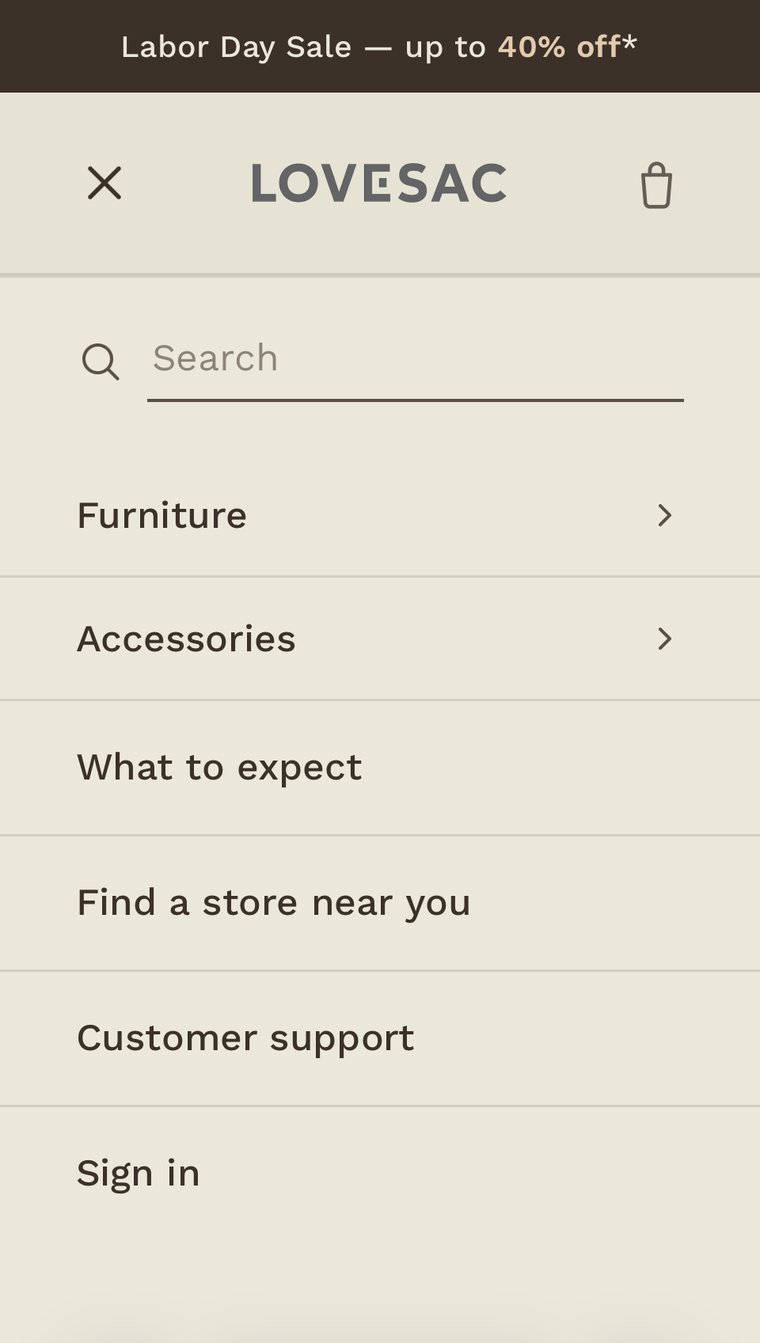
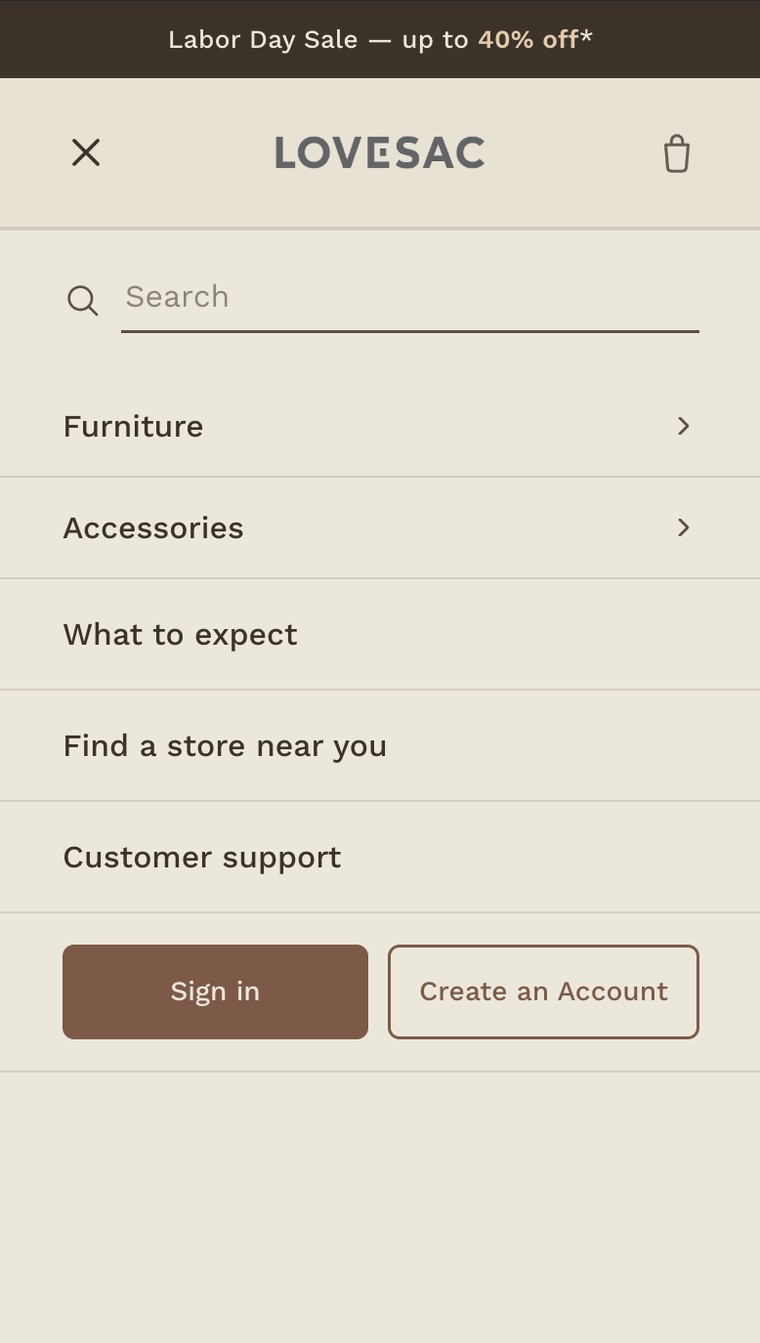
Fix outline button border, update mobile nav screenshot, unify case study headers
- Restore Create an Account pill's bottom border, clipped by an
  overzealous divider-reset rule
- Update the Redesign — mobile screenshot on case study 2 to show
  the new Sign in / Create an Account buttons
- Add missing "· Redesign" suffix to case study 1's eyebrow and
  align case study 2's top bar tag to the "Case Study · [name]"
  pattern used across all four pages

diff --git a/work/lovesac-redesign.html b/work/lovesac-redesign.html
@@ -393,6 +393,9 @@
     background:none; font-family:inherit; color:inherit; text-align:left; cursor:pointer;
   }
   .mobile-nav-row svg{width:16px; height:16px; color:var(--ink-soft); flex-shrink:0;}
+  .mobile-account-actions{display:flex; gap:10px; padding:16px 32px; border-bottom:1px solid var(--line);}
+  .mobile-menu .mobile-account-actions a{flex:1; display:flex; align-items:center; justify-content:center; text-align:center; padding:12px 14px; font-size:0.88rem; border-bottom:none;}
+  .mobile-menu .mobile-account-actions .btn-outline{border-bottom:1.5px solid var(--clay);}
   .mobile-tier-2{
     position:absolute; top:0; left:0; right:0;
     background:var(--canvas);
@@ -954,7 +957,10 @@
         <a href="lovesac-what-to-expect.html">What to expect</a>
         <a href="#" id="mobileStoreLink">Find a store near you</a>
         <a href="lovesac-support.html">Customer support</a>
-        <a href="#" id="mobileSignInLink">Sign in</a>
+        <div class="mobile-account-actions">
+          <a href="#" class="btn-primary nav-mock">Sign in</a>
+          <a href="#" class="btn-outline nav-mock">Create an Account</a>
+        </div>
       </div>
 
       <div class="mobile-tier-2" id="mobileTierFurniture">
@@ -1681,15 +1687,6 @@
       closeMenu();
       var storeToggle = document.getElementById('storeToggle');
       if(storeToggle) setTimeout(function(){ storeToggle.click(); }, 260);
-    });
-  }
-  var mobileSignInLink = document.getElementById('mobileSignInLink');
-  if(mobileSignInLink){
-    mobileSignInLink.addEventListener('click', function(e){
-      e.preventDefault();
-      closeMenu();
-      var accountToggle = document.getElementById('accountToggle');
-      if(accountToggle) setTimeout(function(){ accountToggle.click(); }, 260);
     });
   }
 })();

diff --git a/work/lovesac-case-study-2.html b/work/lovesac-case-study-2.html
@@ -193,7 +193,7 @@
 <div class="topbar">
   <div class="wrap">
     <a class="back" href="lovesac-case-study.html">&larr; Back to case study</a>
-    <span class="tag">Deep Dive · UX Detail</span>
+    <span class="tag">Case Study · Deep Dive</span>
   </div>
 </div>
 
@@ -223,7 +223,7 @@
       </div>
       <div class="nav-col after">
         <div class="nav-label"><span class="sw"></span>Redesign — mobile</div>
-        <div class="phone-slot"><img src="/images/lovesac-mobile-nav-after.jpg" alt="Redesigned Lovesac mobile menu: two top-level categories, Furniture and Accessories, plus direct links to What to expect, store locator, customer support, and sign in."></div>
+        <div class="phone-slot"><img src="/images/lovesac-mobile-nav-after.jpg" alt="Redesigned Lovesac mobile menu: two top-level categories, Furniture and Accessories, plus direct links to What to expect, store locator, customer support, and Sign in / Create an Account buttons."></div>
       </div>
     </div>
     <p class="nav-note">The original menu lists every product category flat, one after another, each with its own description and chevron — eight-plus rows before you even reach account actions, with a floating chat tab overlapping the content the whole way down. The redesign collapses that into two categories, Furniture and Accessories, plus direct links to what customers actually need next: delivery expectations, a nearby store, support, and their account.</p>

diff --git a/work/lovesac-case-study.html b/work/lovesac-case-study.html
@@ -477,7 +477,7 @@
 <main id="main-content">
 <header class="hero">
   <div class="wrap">
-    <div class="eyebrow">Case Study — 01</div>
+    <div class="eyebrow">Case Study — 01 · Redesign</div>
     <h1>Lovesac: from a viral critique to a full <em>redesign</em>.</h1>
     <p class="sub">What started as a critique became an opportunity to rethink the entire digital experience — from information architecture and accessibility to how the brand communicates value, flexibility, and trust.</p>
 
